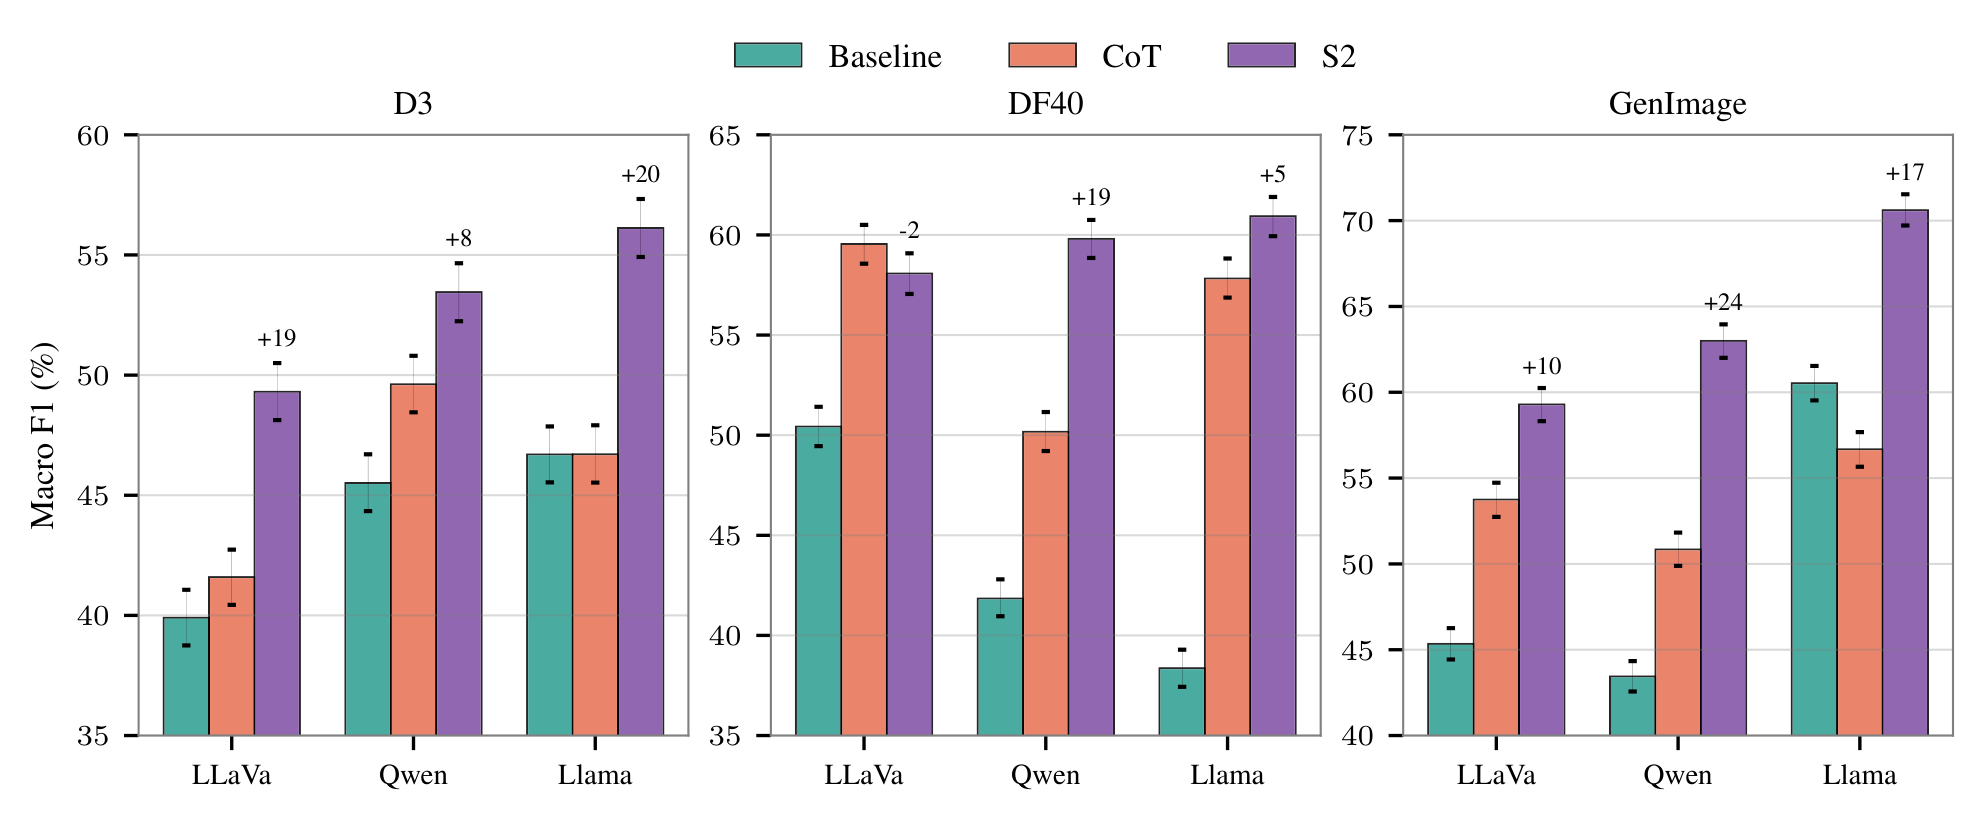
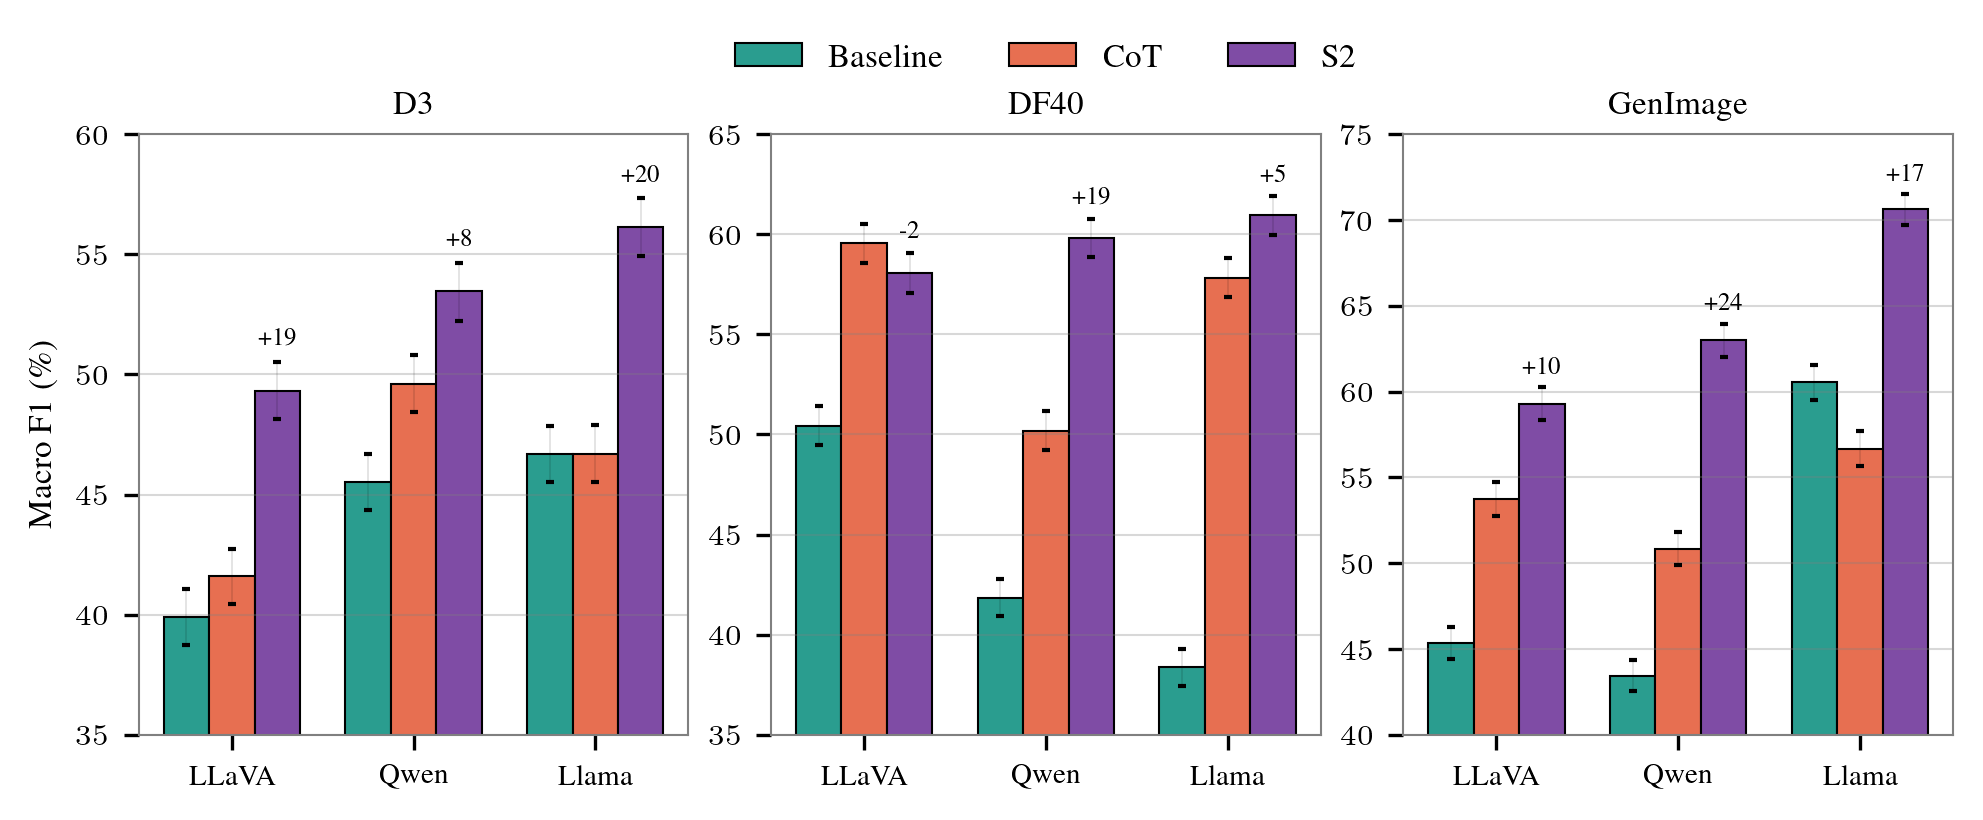
updated image and removed alpha

diff --git a/results/plot_vocab_lr.py b/results/plot_vocab_lr.py
@@ -109,28 +109,28 @@ def plot_stacked_subplot(ax, words_data, is_positive=True, show_xlabel=True):
     if is_positive:
         # Positive bars: baseline (closest to 0), then cot, then s2
         ax.barh(y_positions, baseline_lengths, height=pc.BAR_HEIGHT,
-                color=pc.BASELINE_COLOR, label='Baseline', alpha=pc.BAR_ALPHA,
+                color=pc.BASELINE_COLOR, label='Baseline',
                 edgecolor='black', linewidth=pc.BAR_EDGE_WIDTH)
 
         ax.barh(y_positions, cot_lengths, height=pc.BAR_HEIGHT,
-                left=baseline_lengths, color=pc.COT_COLOR, label='CoT', alpha=pc.BAR_ALPHA,
+                left=baseline_lengths, color=pc.COT_COLOR, label='CoT',
                 edgecolor='black', linewidth=pc.BAR_EDGE_WIDTH)
 
         ax.barh(y_positions, s2_lengths, height=pc.BAR_HEIGHT,
-                left=baseline_lengths + cot_lengths, color=pc.S2_COLOR, label='S2', alpha=pc.BAR_ALPHA,
+                left=baseline_lengths + cot_lengths, color=pc.S2_COLOR, label='S2',
                 edgecolor='black', linewidth=pc.BAR_EDGE_WIDTH)
     else:
         # Negative bars: reverse order so s2 (closest to 0), then cot, then baseline
         ax.barh(y_positions, s2_lengths, height=pc.BAR_HEIGHT,
-                color=pc.S2_COLOR, label='S2', alpha=pc.BAR_ALPHA,
+                color=pc.S2_COLOR, label='S2',
                 edgecolor='black', linewidth=pc.BAR_EDGE_WIDTH)
 
         ax.barh(y_positions, cot_lengths, height=pc.BAR_HEIGHT,
-                left=s2_lengths, color=pc.COT_COLOR, label='CoT', alpha=pc.BAR_ALPHA,
+                left=s2_lengths, color=pc.COT_COLOR, label='CoT',
                 edgecolor='black', linewidth=pc.BAR_EDGE_WIDTH)
 
         ax.barh(y_positions, baseline_lengths, height=pc.BAR_HEIGHT,
-                left=s2_lengths + cot_lengths, color=pc.BASELINE_COLOR, label='Baseline', alpha=pc.BAR_ALPHA,
+                left=s2_lengths + cot_lengths, color=pc.BASELINE_COLOR, label='Baseline',
                 edgecolor='black', linewidth=pc.BAR_EDGE_WIDTH)
 
     # WORD LABELS

diff --git a/results/plot_config.py b/results/plot_config.py
@@ -104,7 +104,6 @@ ANNOTATION_FONT_SIZE = 6    # Small annotations (improvement markers, etc.)
 BAR_WIDTH = 0.25          # Width of individual bars in grouped bar charts
 BAR_HEIGHT = 0.6          # Height of horizontal bars
 BAR_EDGE_WIDTH = 0.5      # Width of bar borders
-BAR_ALPHA = 0.85          # Transparency for bar fill (used in vocab plots)
 
 # Error bar styling
 ERROR_BAR_WIDTH = 0.05    # Width of error bar lines

diff --git a/results/plot_macro_f1_bars.py b/results/plot_macro_f1_bars.py
@@ -269,7 +269,6 @@ def create_macro_f1_bar_plot(results: Dict, ci_data: Optional[Dict] = None):
                 bar_width,
                 label=pc.METHOD_NAMES[method],
                 color=pc.METHOD_COLORS[method],
-                alpha=pc.BAR_ALPHA,
                 edgecolor='black',
                 linewidth=pc.BAR_EDGE_WIDTH,
                 yerr=yerr,
